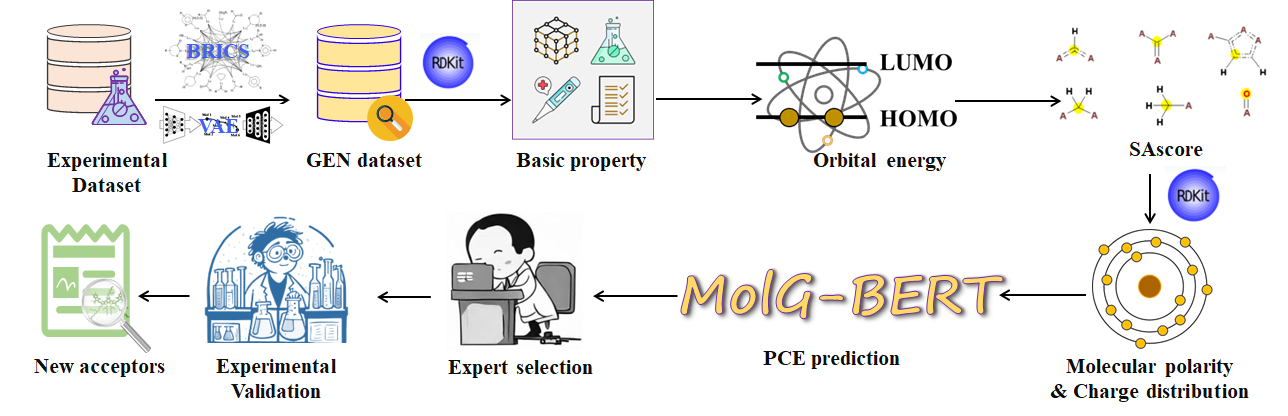
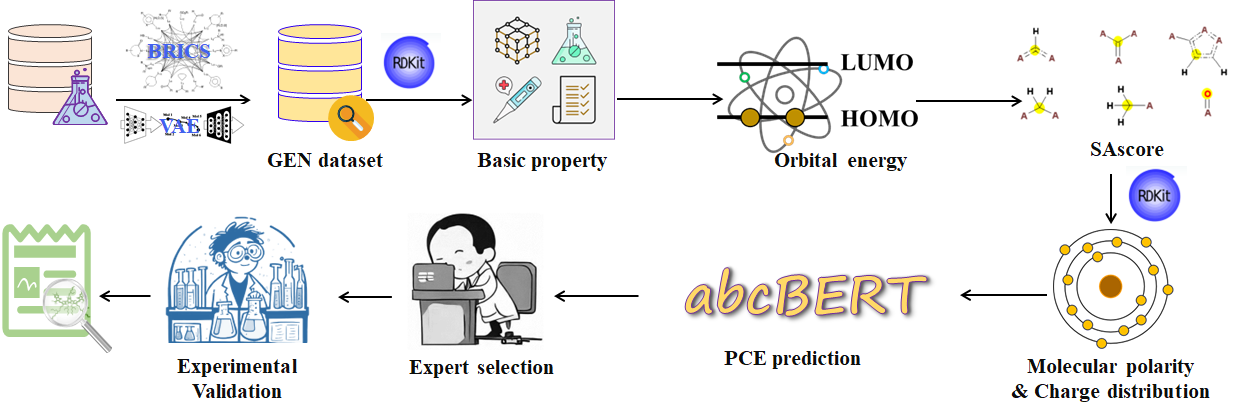
update the guidance

diff --git a/README.md b/README.md
@@ -1,4 +1,4 @@
-# DeepAcceptor
+# <u>DeepAcceptor</u>
 
 ### **Computational design and screening of acceptor materials for organic solar cells**
 
@@ -6,9 +6,13 @@
 
 ## <u>Motivation</u>
 
-It is a time-consuming and costly process to developing affordable and high-performance organic photovoltaic materials. Developing reliable computational methods to predict the power conversion efficiency (PCE) is crucial to triage unpromising molecules in large-scale database and accelerate the material discovery process. In this study, a deep-learning based framework (DeepAcceptor) has been built to design and discover high-efficient small molecule acceptor materials. Specifically, an experimental dataset was built by collecting data from publications. Then, a BERT-based model was used to predict PCEs. The molecular graph was used as the input and the computation molecules and experimental molecules were used to pretrain and finetune the model, respectively. In sum, DeepAcceptor is a promising method to predict the PCE and speed up the discovery of high-performance acceptor materials.
+It is a time-consuming and costly process to develop affordable and high-performance organic photovoltaic materials. Developing reliable computational methods to predict the power conversion efficiency (PCE) is crucial to triage unpromising molecules in large-scale databases and accelerate the material discovery process. In this study, a deep learning-based framework (DeepAcceptor) has been built to design and discover high-efficient small molecule acceptor materials. Specifically, an experimental dataset was constructed by collecting data from publications. Then, a BERT-based model was customized to predict PCEs by taking fully advantages of the atom, bond, connection information in molecular structures of acceptors, and this customized architecture is termed as abcBERT. The computation molecules and experimental molecules were used to pre-train and fine-tune the model, respectively. The molecular graph was used as the input and the computation molecules and experimental molecules were used to pretrain and finetune the model, respectively. In sum, DeepAcceptor is a promising method to predict the PCE and speed up the discovery of high-performance acceptor materials.
 
-## <u>Depends</u>
+------
+
+
+
+### <u>Depends</u>
 
 We recommend to use [conda](https://conda.io/docs/user-guide/install/download.html) and [pip](https://pypi.org/project/pip/).
 
@@ -19,39 +23,123 @@ We recommend to use [conda](https://conda.io/docs/user-guide/install/download.ht
 **By using the *environment.yml* file, it will install all the required packages.**
 
 ```
-    git clone https://github.com/jinysun/deepacceptor.git
-
-    cd DeepAcceptor
-
-    conda env create -f environment.yml
-
-    conda activate deepacceptor
+git clone https://github.com/jinysun/deepacceptor.git
+cd DeepAcceptor
+conda env create -f environment.yml
+conda activate deepacceptor
 ```
+
+------
 
 ## <u>Usage</u>
 
--- pretrain:
-    contains the codes for masked atom prediction pre-training task.
-    
--- regression:
-    contain the code for fune-tuning on specified tasks
-    
--- dataset:
-    contain the code to building dataset for pre-traing and fine-tuning 
-    
--- utils:
-    contain the code to convert molecules to graphs
-    
- --data:
-     dataset used for pretraining and fine-tuning 
+| The code of abcBERT is as follows.                           |
+| ------------------------------------------------------------ |
+| -- [pretrain](https://github.com/JinYSun/DeepAcceptor/blob/master/abcBERT/pretrain.py): contains the codes for masked atom prediction pre-training task. |
+| -- [regression](https://github.com/JinYSun/DeepAcceptor/blob/master/abcBERT/regression.py): contain the code for fune-tuning on specified tasks |
+| -- [dataset](https://github.com/JinYSun/DeepAcceptor/blob/master/abcBERT/dataset.py): contain the code to building dataset for pre-traing and fine-tuning |
+| -- [utils](https://github.com/JinYSun/DeepAcceptor/blob/master/abcBERT/utils.py): contain the code to convert molecules to graphs |
+| --[predict](https://github.com/JinYSun/DeepAcceptor/blob/master/abcBERT/predict.py): contain the code for predict the properties |
+
+------
+
+
+
+## <u>Data pre-processing</u>
+
+abcBERT is a model for predicting PCE based on molecular graph,  so we need to convert SMILES strings to Graph. The related method is  shown in [`deepacceptor/utils.py`](https://github.com/JinYSun/DeepAcceptor/blob/master/abcBERT/utils.py)
+
+First, put the test file in the file data/reg/.
+
+Then, run the utils.py as follows.
+
+    import pandas as pd 
+    f = pd.read_csv (r"data/reg/test.csv")
+    re = []
+    pce = f['PCE']
+    for ind,smile in enumerate ( f.iloc[:,0]):
+        
+        atom,adj = mol_to_geognn_graph_data_MMFF3d(smile)
+        np.save('data/reg/test/adj'+str(ind)+'.npy',np.array(adj))
+        re.append([atom,'data/reg/test/adj'+str(ind)+'.npy',pce[ind] ])
+    r = pd.DataFrame(re)
+    r.to_csv('data/reg/test/test.csv')
+    print('Done!')
+
+------
+
+
+
+## <u>Model training</u>
+
+1. #### Pretrain the model
+
+   ```
+   import pretrain
+   pretrain.main()
+   ```
+
+2. #### Finetune the model
+
+       import regression
+       from regression import *
+       result =[]
+       r2_list = []
+       seed = 12
+       r2,prediction_val,prediction_test= main(seed)
+
+------
+
+
+
+## <u>Predicting PCE</u>
+
+The PCE prediction is obtained by feeding the the processed molecules into the already trained abcBERT model with [predict.py](https://github.com/JinYSun/DeepAcceptor/blob/master/abcBERT/predict.py) 
+
+    import predict
+    from predict import *
+    result =[]
+    r2_list = []
+    seed = 12
+    r2,prediction_val= main(seed)
+
+**The example codes for usage is included in the [test.ipynb](https://github.com/JinYSun/DeepAcceptor/blob/master/abcBERT/test.ipynb)**
+
+------
+
+
+
+## <u>Designing and Screening</u>
+
+![screen](screen\screen.jpg)
+
+### Molecular generation
+
+[BRICS](https://github.com/JinYSun/DeepAcceptor/blob/master/screen/general.py)+[VAE](https://github.com/JinYSun/DeepAcceptor/tree/master/screen/vae): A fragments-based molecule design framework was built by using the  breaking of retrosynthetically interesting chemical substructures  (BRICS) algorithm and variational autoencoder (VAE) to obtain a database with specific potential molecular properties. 
+
+### Basic properties
+
+[Basic properties](https://github.com/JinYSun/DeepAcceptor/blob/master/screen/properties.py): The Gen database was screened with some basic properties such as molecular size, log*P*, the number of H-bond acceptors and donors, number of rotatable bonds. These properties were calculated by using RDKit. 
+
+### HOMO & LUMO matching
+
+[GNN](https://github.com/JinYSun/DeepAcceptor/tree/master/screen/HOMO_LUMO) was trained on a NFA dataset including HOMO and LUMO  computing by DFT. The dataset including 51000 NFAs was splited randomly  with a ratio of 8:1:1. The MAE and R2 of the predicted HOMO are 0.052  and 0.972. 
+
+## SAscore
+
+[SAscore](https://github.com/JinYSun/DeepAcceptor/tree/master/screen/SAscore)  was used to synthetic accessibility and complexity. 
+
+### **Molecular polarities and charge distribution**
+
+[Properties](https://github.com/JinYSun/DeepAcceptor/blob/master/screen/properties.py) related to molecular polarity and charge distribution were calculated by RDKit. 
+
+------
+
+
 
 ## <u>Discussion</u> 
 
 The [Discussion](https://github.com/JinYSun/Deepacceptor/tree/main/discussion) folder contains the scripts for evaluating the PCE prediction performance.  We compared sevaral common methods widely used in molecular property prediction, such as [MolCLR](https://github.com/JinYSun/DeepAcceptor/blob/main/discussion/MolCLR.py) [GNN](https://github.com/JinYSun/DeepAcceptor/blob/main/discussion/GNN.py),[RF](https://github.com/JinYSun/DeepAcceptor/blob/main/discussion/RF.py), [ANN](https://github.com/JinYSun/Deepacceptor/blob/main/discussion/ANN.py),[QDF](https://github.com/JinYSun/DeepAcceptor/blob/main/discussion/QDF.py).
-
-## <u>Screen</u>
-
-![screen](screen.jpg)
 
 ## <u>Contact</u>
 
